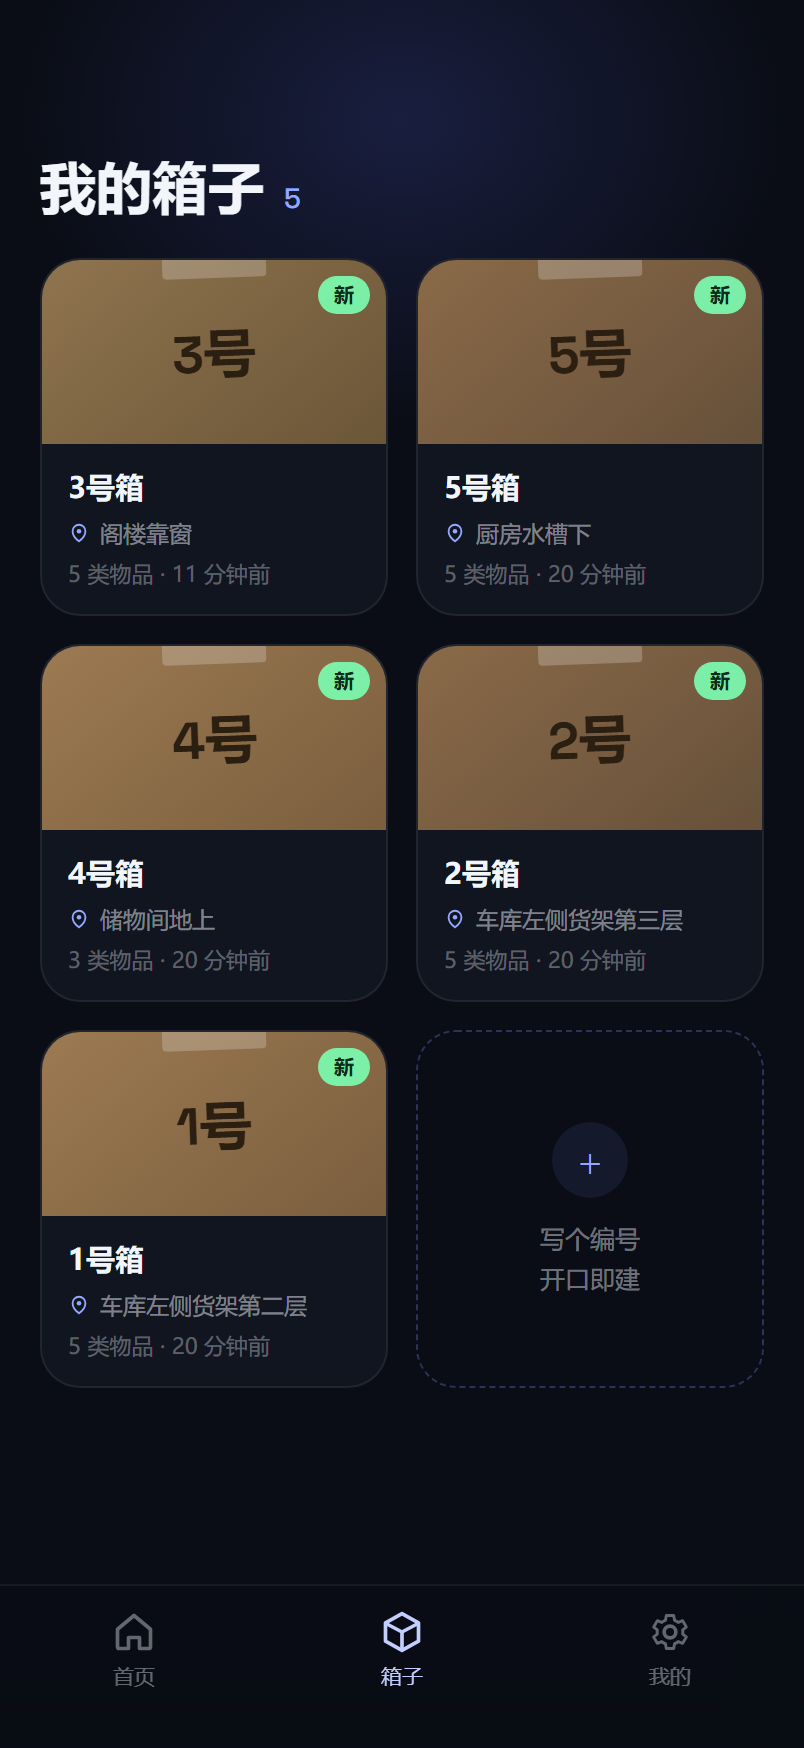
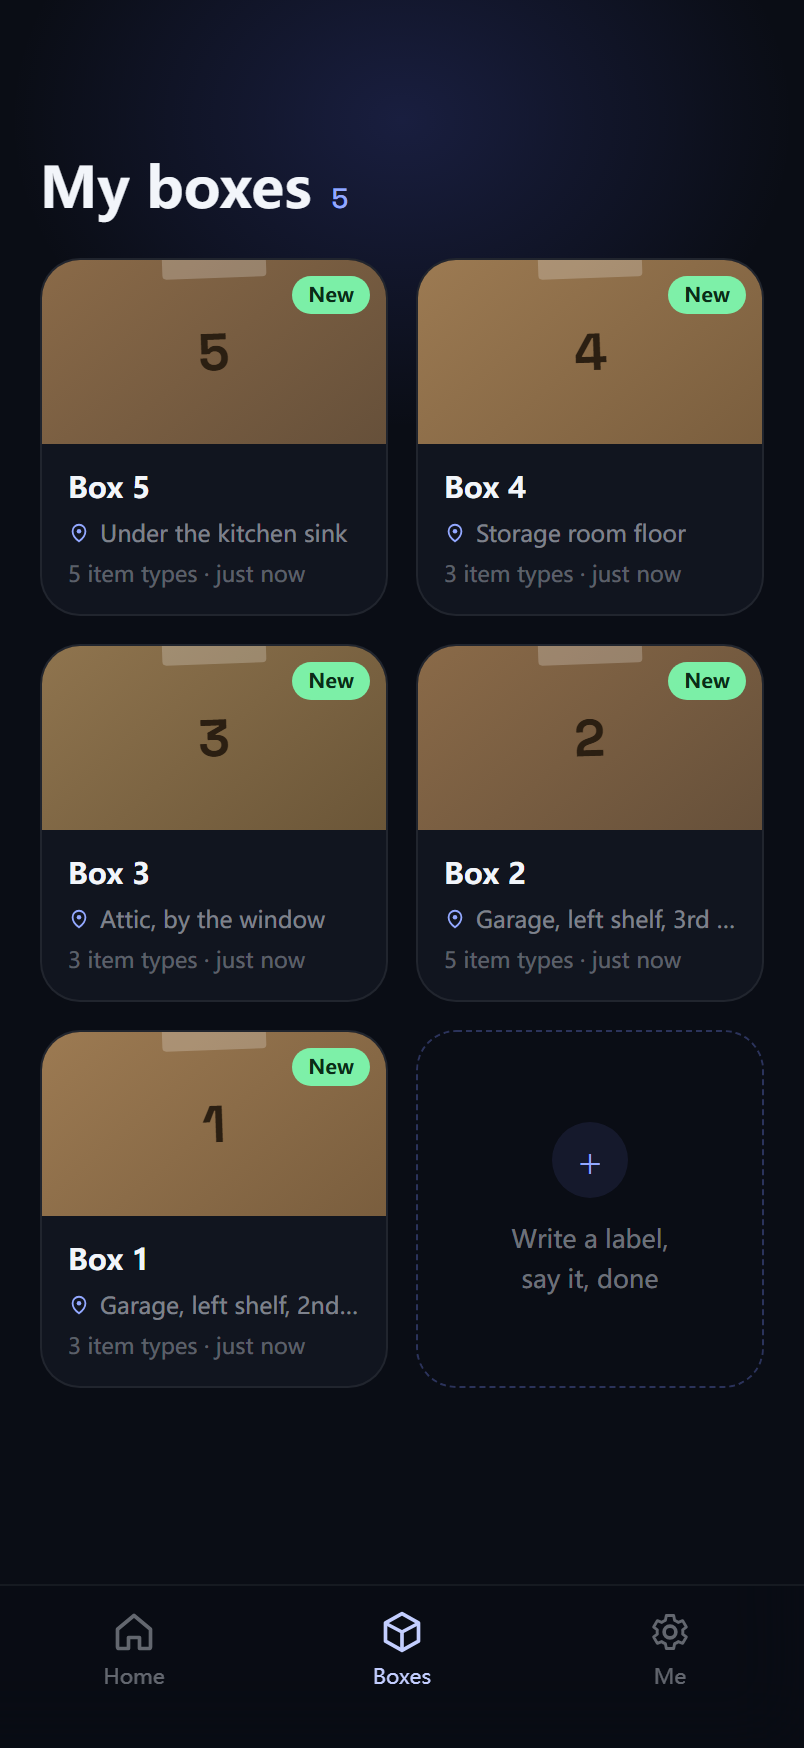
docs: English screenshots and README/notes updated for the English-default UI

diff --git a/README.md b/README.md
@@ -12,7 +12,7 @@ BoxMind is an AI inventory assistant for the boxes people pack into garages, sto
 
 The interesting part is not that an LLM was used to write code. It is that the LLM is the runtime: a small classifier routes each sentence, an agent decides which backend operations to call and in what order, a vision model reads photos into structured items, and a RAG loop answers questions. Everything the models do is bounded by tool schemas, confirmation gates and tests.
 
-Built solo in June 2026 as an MVP. The UI is Chinese-first; code comments are partly Chinese; this README and the docs are English.
+Built solo in June 2026 as an MVP. The UI is English by default with Chinese available in Settings; everything the server generates (box names, confirmation summaries, tool results) follows the user's language, and the models answer in whatever language you ask in. Code comments are partly Chinese.
 
 <p align="center">
   <img src="docs/screenshots/home.png" width="230" alt="Home: one big talk button">
@@ -34,6 +34,7 @@ Built solo in June 2026 as an MVP. The UI is Chinese-first; code comments are pa
 | Read-aloud | TTS on any answer. |
 | Media | Photos become box covers; photos and voice notes are stored per box. |
 | Login | Email verification code (SMTP), with a dev mode that returns the code from the API so the app runs without mail setup. |
+| Languages | UI in English (default) or Chinese, switchable before sign-in and in Settings. The choice is stored on the account so the backend localises what it generates: default box names ("Box 4" / "4号箱"), confirmation summaries, tool results the model relays, dates. Models are told which language to answer in; item names are never translated. |
 
 ## How one sentence is handled
 
@@ -46,22 +47,22 @@ sequenceDiagram
     participant LLM as LLM gateway
     participant DB as Postgres + pgvector
 
-    U->>FE: "把4号的电钻移到2号，然后把厨房备用并到5号"
+    U->>FE: "Move the power drill from box 4 to box 2, then merge Kitchen spare into box 5"
     FE->>API: POST /api/interpret
     API->>LLM: JSON-mode classify: ingest | query | operation
     LLM-->>API: {"intent": "operation"}
     FE->>API: POST /api/agent {message, history, gps}
-    API->>LLM: chat + 15 tool schemas + snapshot of the user's boxes
-    LLM-->>API: tool_calls: move_items(4号→2号, [电钻]), merge_boxes([厨房备用]→5号)
+    API->>LLM: chat + 15 tool schemas + snapshot of the user's boxes + "answer in English"
+    LLM-->>API: tool_calls: move_items(4→2, [Power drill]), merge_boxes([Kitchen spare]→5)
     API->>DB: move_items executed
     Note over API: merge_boxes is destructive → do not execute
     API-->>FE: {type: "confirm", actions: [{tool, args, summary}], executed: [...]}
-    FE-->>U: red card: "把「厨房备用」的物品并入「5号」，并删除清空后的来源箱"
-    U->>FE: 确认执行
+    FE-->>U: red card: "Move everything from “Kitchen spare” into “5” and delete the emptied source boxes"
+    U->>FE: Confirm
     FE->>API: POST /api/agent/execute {tool, args}
     API->>DB: snapshot affected boxes → merge → commit
-    API-->>FE: "已把「厨房备用」并入「5号箱」"
-    U->>FE: "撤销"
+    API-->>FE: "Merged “Kitchen spare” into “Box 5”"
+    U->>FE: "undo"
     FE->>API: POST /api/agent → LLM picks undo_last
     API->>DB: restore boxes, items, media ownership from snapshot (same ids)
 ```
@@ -106,8 +107,8 @@ Tests were written to make the AI orchestration checkable without a model in the
 
 | Suite | Count | What is real, what is faked |
 |---|---|---|
-| Backend `pytest` | 148 | Real PostgreSQL + pgvector (throwaway `boxmind_test` database, created on demand), real FastAPI app through `TestClient`, real cascades and undo snapshots. Faked: embeddings (deterministic hash vectors, so nothing is downloaded and exact names always match) and the LLM gateway (a scripted client that replays tool calls and records every request). Warnings are errors. |
-| Frontend `vitest` | 39 | Store logic (routing of a sentence, confirm-card flow, photo-intake selection, scan fallback, display helpers) with the API module mocked; API client (auth header, 401 → logout, SSE parser across arbitrary chunk boundaries). |
+| Backend `pytest` | 163 | Real PostgreSQL + pgvector (throwaway `boxmind_test` database, created on demand), real FastAPI app through `TestClient`, real cascades and undo snapshots. Faked: embeddings (deterministic hash vectors, so nothing is downloaded and exact names always match) and the LLM gateway (a scripted client that replays tool calls and records every request). Warnings are errors. |
+| Frontend `vitest` | 47 | Store logic (routing of a sentence, confirm-card flow, photo-intake selection, scan fallback, language handling, display helpers) with the API module mocked; API client (auth header, 401 → logout, SSE parser across arbitrary chunk boundaries). |
 
 The agent loop is tested turn by turn: which tools were called, what was fed back to the model, when the loop paused for confirmation, what happens on malformed arguments, that non-destructive siblings of a destructive call still run, and that the six-step cap holds. Undo is tested to restore boxes with the same ids, items re-embedded and media rows moved back.
 
@@ -167,11 +168,13 @@ backend/
       agent_destructive.py  summaries, snapshot, execute, undo
       llm.py              prompts and the OpenAI-compatible client
       embeddings.py       local fastembed or remote /embeddings
-    normalize.py    "1号" = "Box 1" = "一号" label normalisation
+    normalize.py    "1" = "Box 1" = "1号" = "一号" label normalisation
+    i18n.py         every user-facing string the server produces, en / zh
   tests/            pytest suite (see above)
 frontend/
   src/
     store.ts        zustand state machine for intake / ask / agent / camera / scan
+    i18n.ts         UI strings, en / zh, with the language toggle helpers
     api.ts          API client + SSE parser
     screens/        Home, Ask, Boxes, BoxDetail, Camera, Scan, Settings, Login, Onboarding
   tests/            vitest suite

diff --git a/docs/DEVELOPMENT.md b/docs/DEVELOPMENT.md
@@ -14,6 +14,7 @@ reports of June 2026; the reports themselves are not in the repo.
 | 3 | 2026-06-13 | Media persistence: photos become box covers, voice notes are stored per box and replayable. Camera / scan entry points made consistent across screens. |
 | 4 | 2026-06-14 | The intent classifier was replaced as the operation path by a **function-calling agent** over the app's own API, with confirm-before-destroy and single-step undo. Deployment collapsed to a single process. |
 | 5 | 2026-09-17 | Open-source preparation: test suites, CI, docs. |
+| 6 | 2026-09-18 | Internationalisation: English becomes the default UI language, Chinese stays available; the backend localises everything it generates. |
 
 ## Decision log
 
@@ -89,6 +90,31 @@ input, `/audio/transcriptions`, `/audio/speech`, `/embeddings`). Switching gatew
 or model is a `.env` change. Embeddings default to a local fastembed model
 (multilingual MiniLM, 384-d) so the RAG path has no external dependency and no per-
 call cost.
+
+### Language is a per-account setting, and the server honours it
+
+The MVP shipped Chinese-only: strings were hard-coded in the UI, the server produced
+Chinese box names and summaries, and the `lang` setting was stored but unused. Making
+English the default meant deciding where language lives:
+
+- **Matching stays language-neutral.** "Box 1", "1", "1号" and "一号" all normalise to
+  the key `#1`, so a box created in one language is found in the other.
+- **Display is decided at creation time, by the user's language.** An English user's
+  box is stored as label `1`, name `Box 1`; a Chinese user's as `1号` / `1号箱`. Text
+  labels ("Kitchen spare") are stored verbatim and the UI shrinks the badge font.
+- **Everything the server says to the user goes through one table** (`app/i18n.py`):
+  tool results the model relays, confirmation-card summaries, undo messages, dates in
+  the RAG context, the "some" quantity placeholder. Prompts are written in English and
+  told which language to answer in; item names are never translated.
+- **Auth errors are codes, not sentences.** The UI translates `code_invalid`,
+  `too_soon`, etc.; the sign-in email is bilingual because the language is not known
+  before sign-in.
+- **The client owns the choice until sign-in, the server after.** The toggle on the
+  login screen writes to localStorage; on sign-in that choice is pushed to the account;
+  on later loads the account value wins.
+
+Spanish, listed in the original PRD, was dropped from the toggle: it had never been
+implemented and a half-translated third language is worse than none.
 
 ### Single process in production
 

diff --git a/docs/design/README.md b/docs/design/README.md
@@ -20,6 +20,7 @@
 | 免费额度 + 按用量买次数包 | 无限制使用，仅记录用量 | MVP 阶段先验证产品，不做支付 |
 | 匿名设备登录 | 邮箱验证码登录（设备登录保留为兼容接口） | 换机不丢数据 |
 | 语音仅服务端转写 | 浏览器 Web Speech 优先，服务端 ASR 兜底，再兜底手动输入 | 端侧实时、零成本；网关通道不可用时不影响使用 |
+| 中文界面，中 / 英 / 西三语切换 | 默认英文，可切中文；西语未实现故不提供 | 面向英文用户主推；服务端生成的文案（箱名、确认摘要等）也随账号语言 |
 
 ## Overview
 
